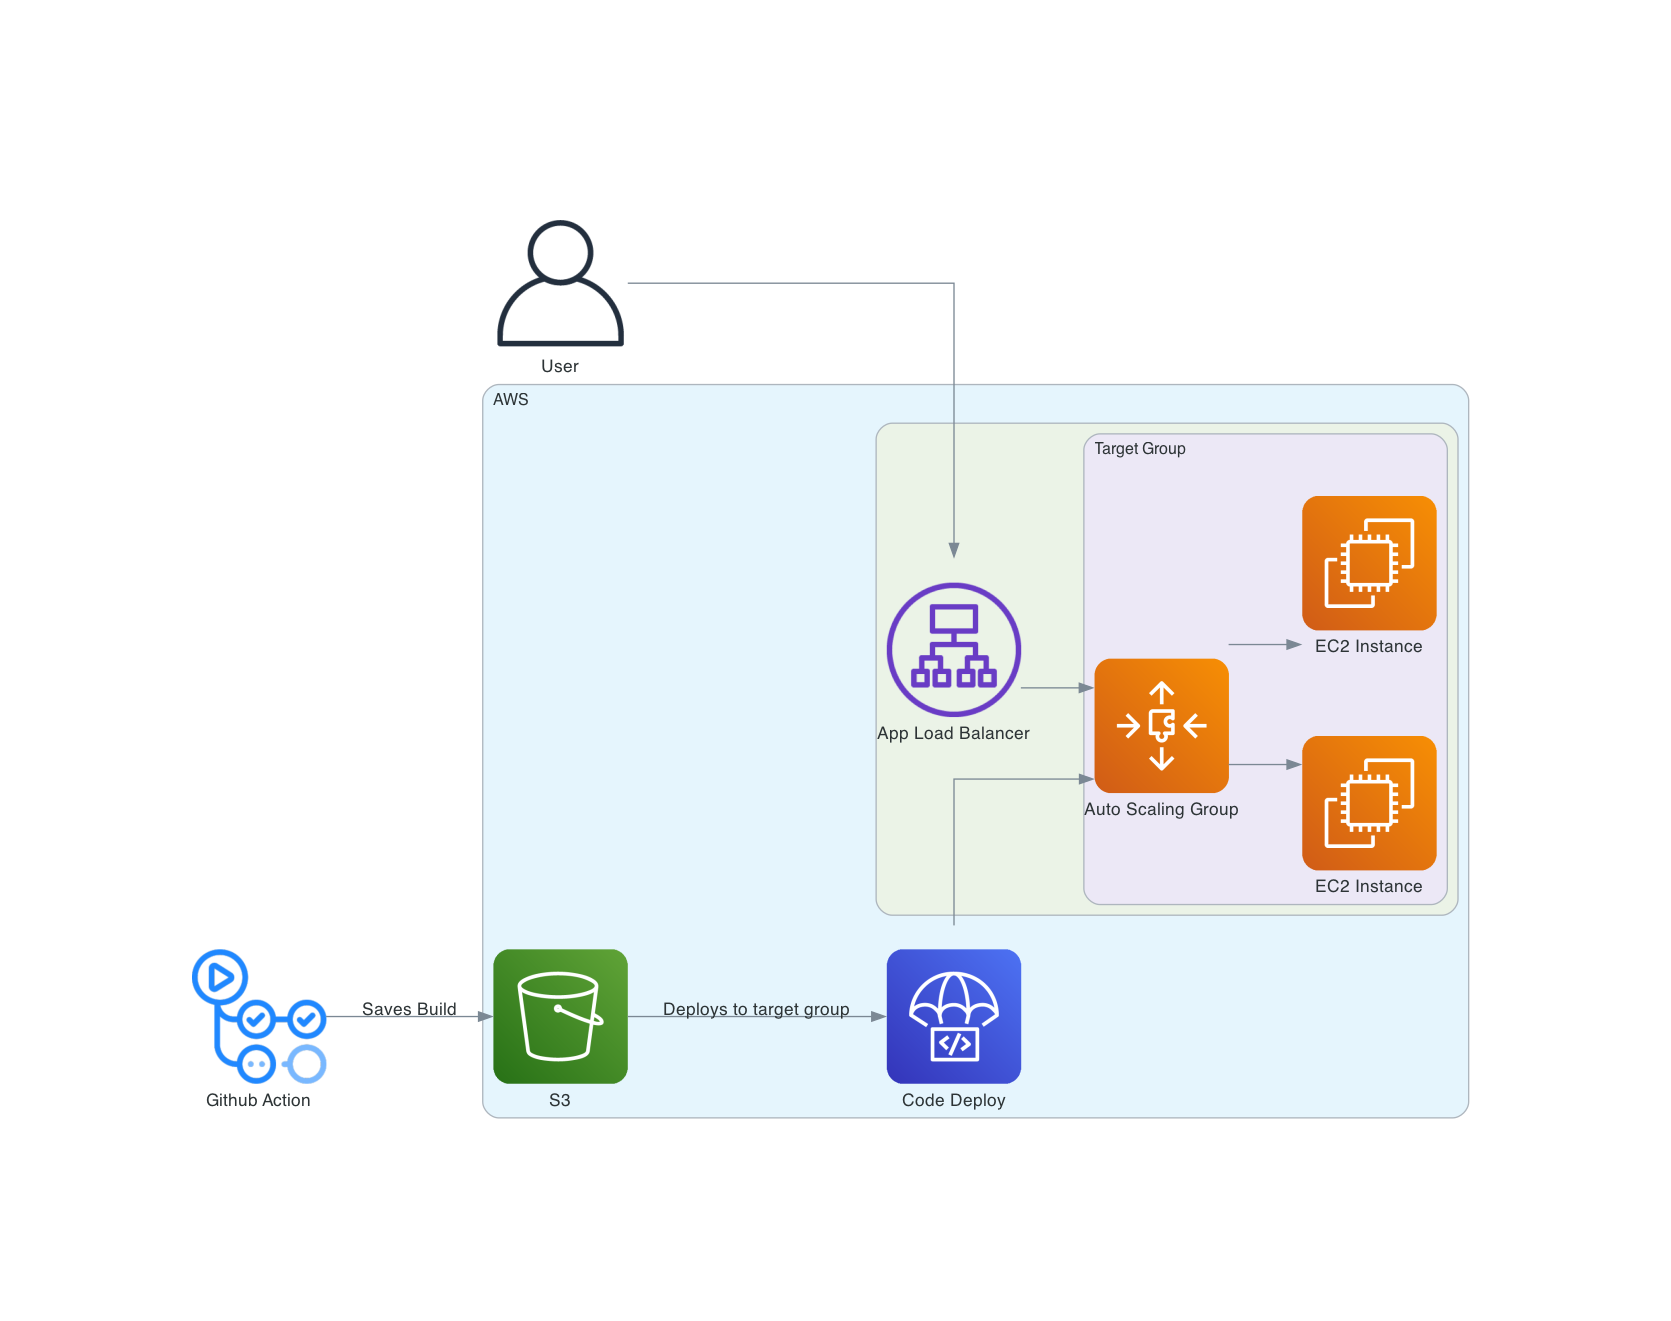
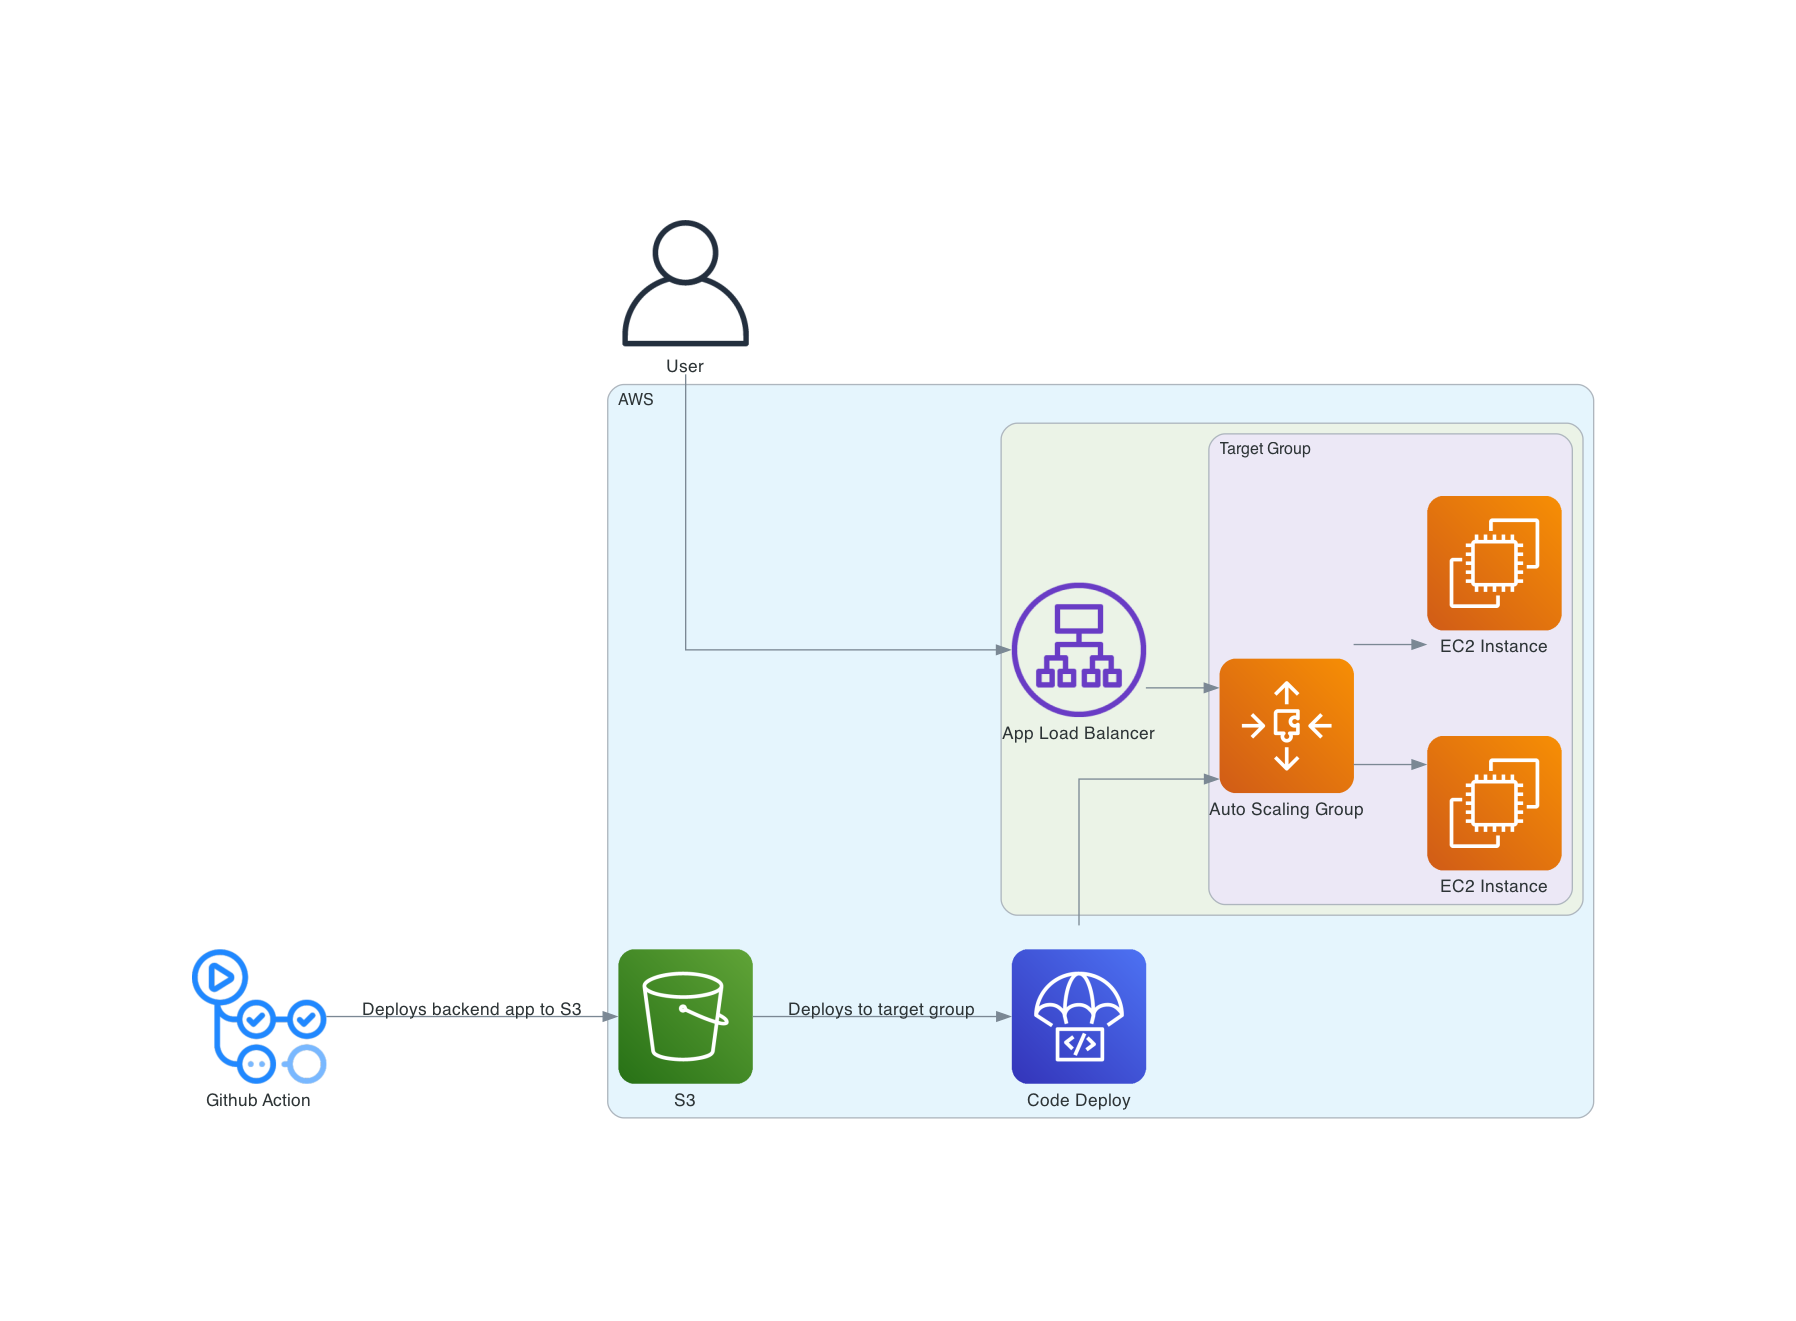
diagrams: Update backend_diagram

Changed region(s): [[0.0934, 0.1552, 0.6535, 0.869], [0.529, 0.2793, 0.9025, 0.838], [0.6535, 0.3104, 0.7157, 0.3414]]

diff --git a/diagrams/backend_diagram.py b/diagrams/backend_diagram.py
@@ -30,5 +30,5 @@ with Diagram("", filename="backend_diagram", outformat="png"):
 
     # user >> Edge(label="") >> route_53
     user >> app_load_balancer
-    github_action >> Edge(label="Saves Build") >> s3_bucket >> Edge(
+    github_action >> Edge(label="Deploys backend app to S3") >> s3_bucket >> Edge(
         label="Deploys to target group") >> code_deploy_group >> auto_scaling_group
